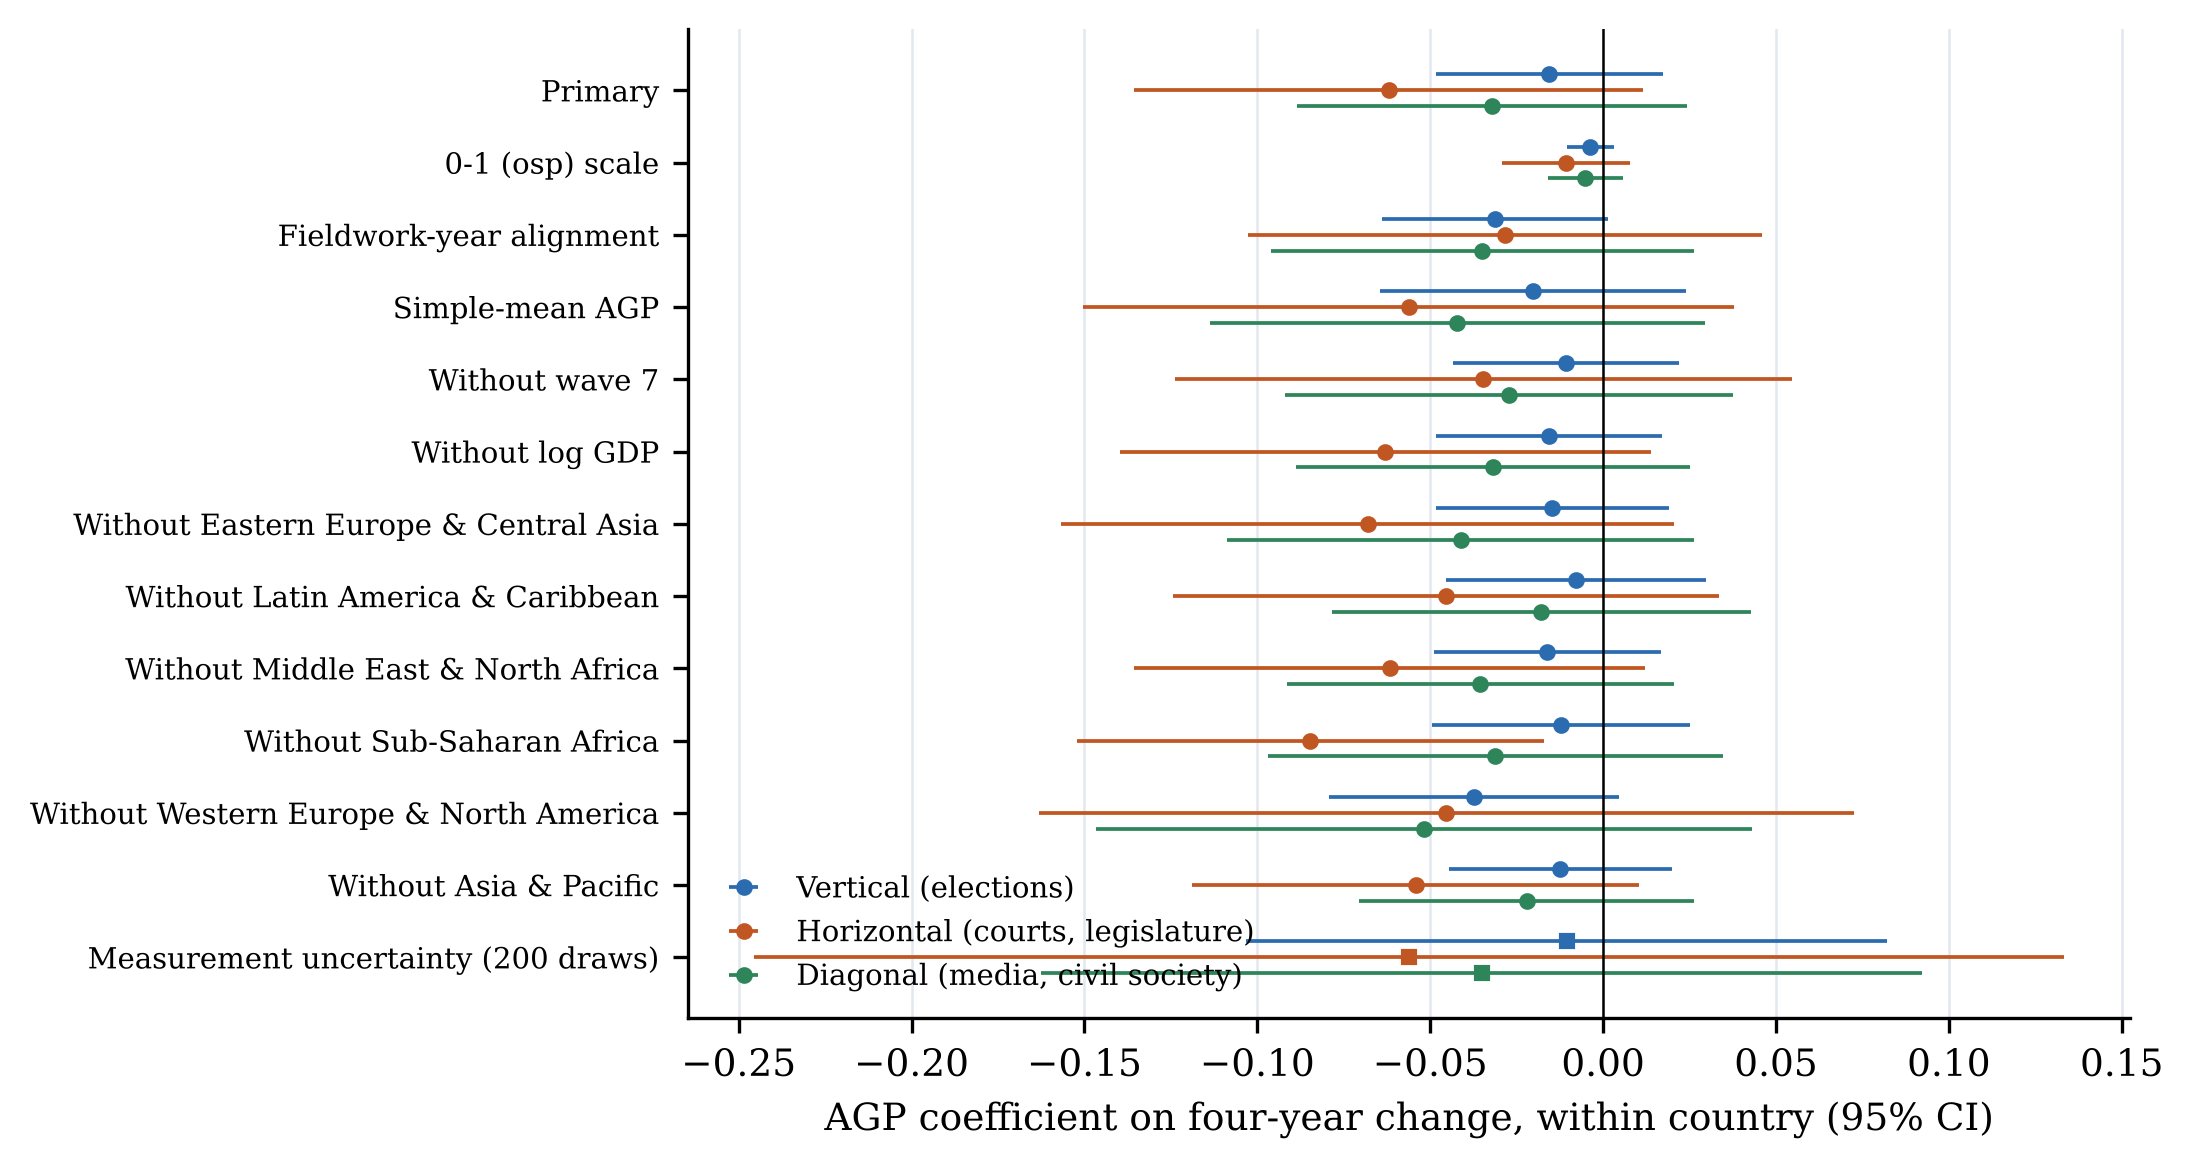
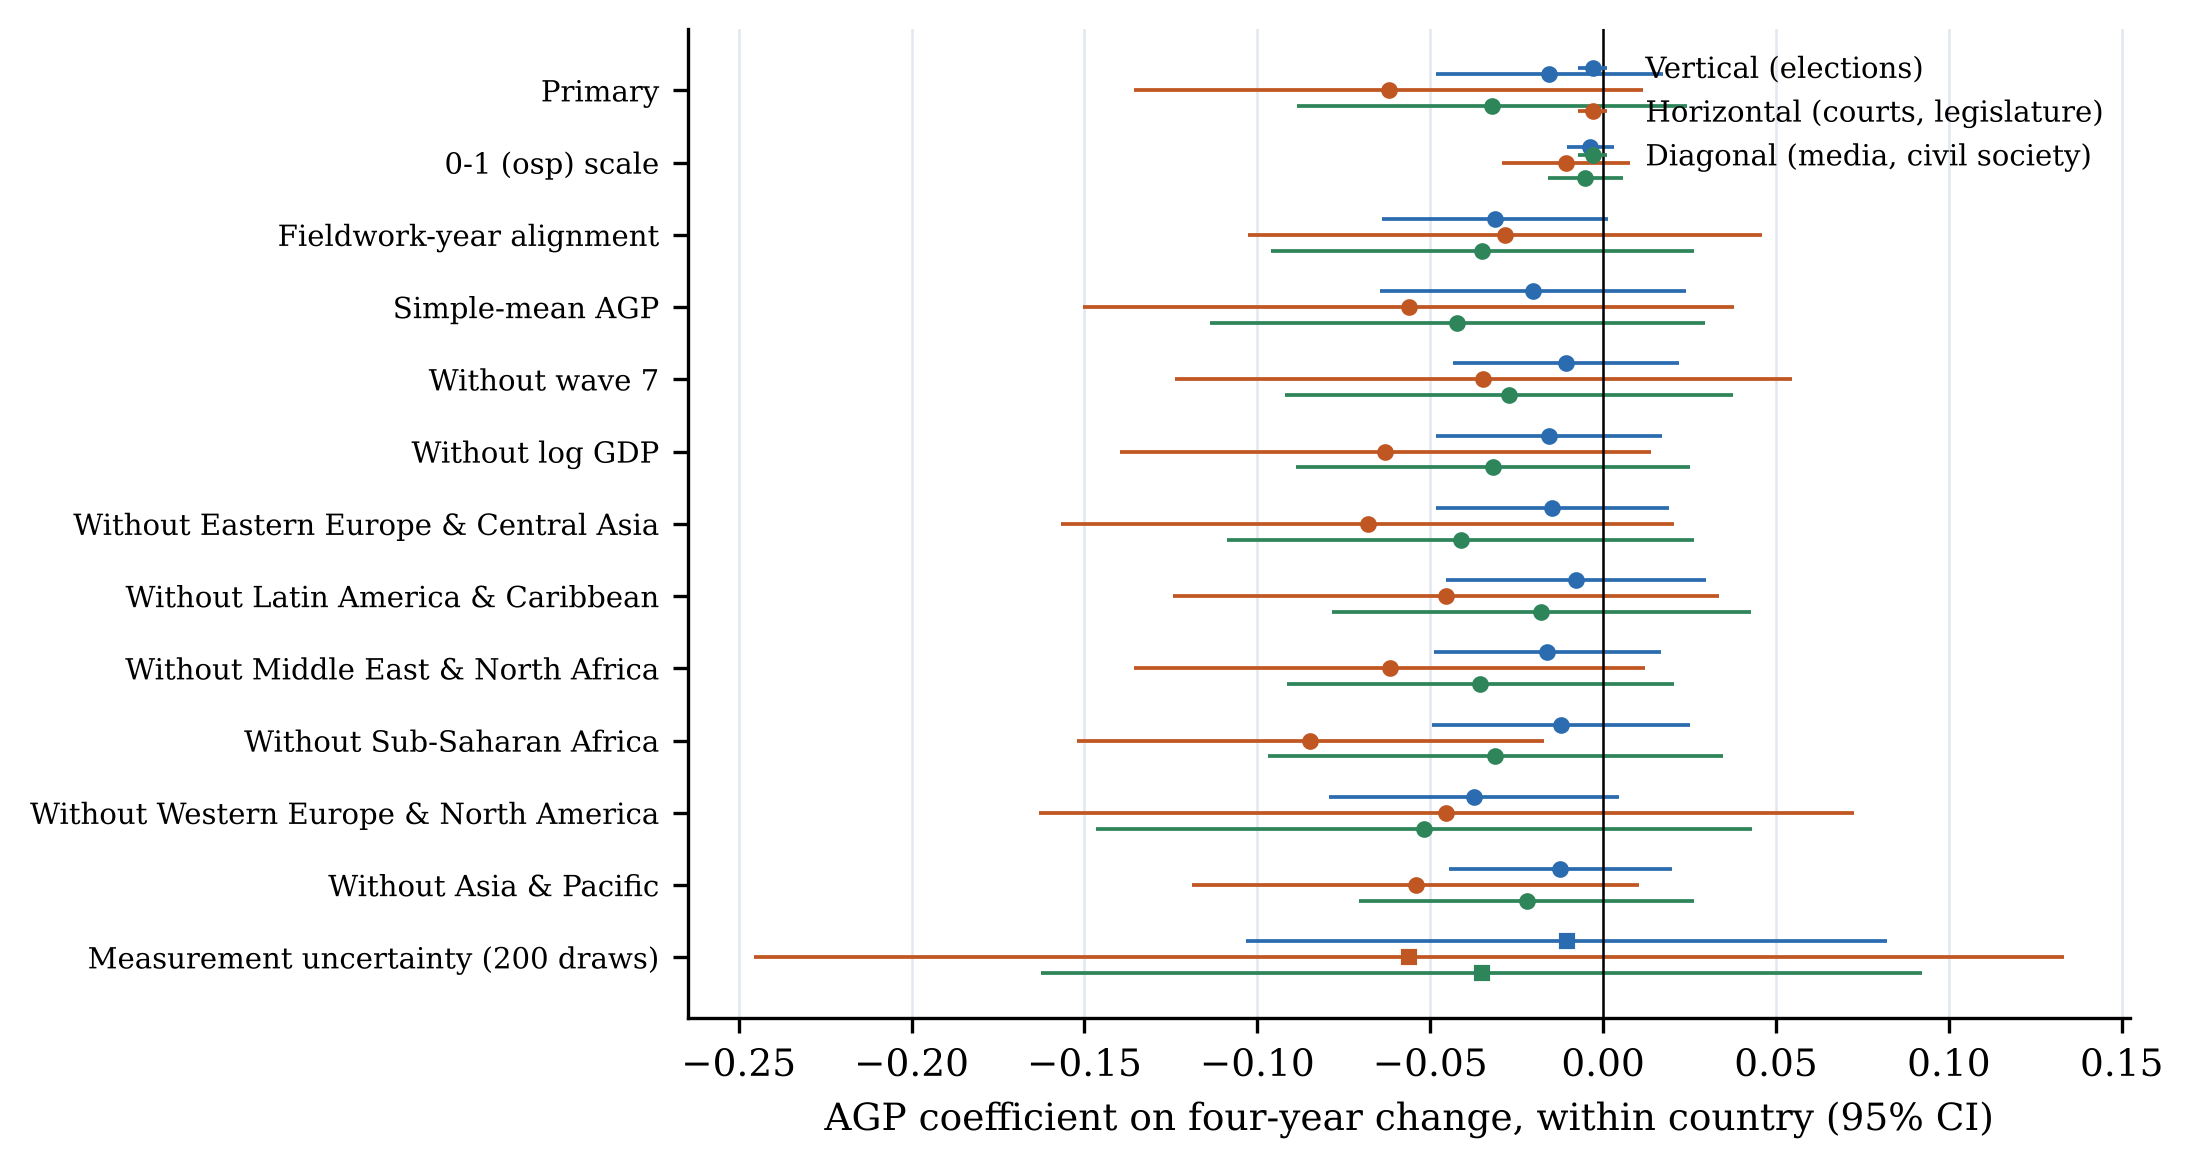
Ledger legend placement
Claude-Session: https://claude.ai/code/session_013NPq89A4e7kRbjFhpgk61F

Changed region(s): [[0.7132, 0.0308, 0.9612, 0.154], [0.3721, 0.7391, 0.5581, 0.8623]]

diff --git a/scripts/10_robustness.py b/scripts/10_robustness.py
@@ -289,7 +289,7 @@ def fig_ledger(rob: pd.DataFrame, post: pd.DataFrame) -> None:
     ax.set_yticks(y, specs + ["Measurement uncertainty (200 draws)"], fontsize=7)
     ax.invert_yaxis()
     ax.set_xlabel("AGP coefficient on four-year change, within country (95% CI)")
-    ax.legend(fontsize=7, loc="lower left")
+    ax.legend(fontsize=7, loc="upper right")
     ax.grid(axis="y", visible=False)
     S.save(fig, FIGURES_DIR / "ch11_fig1_ledger")
 
